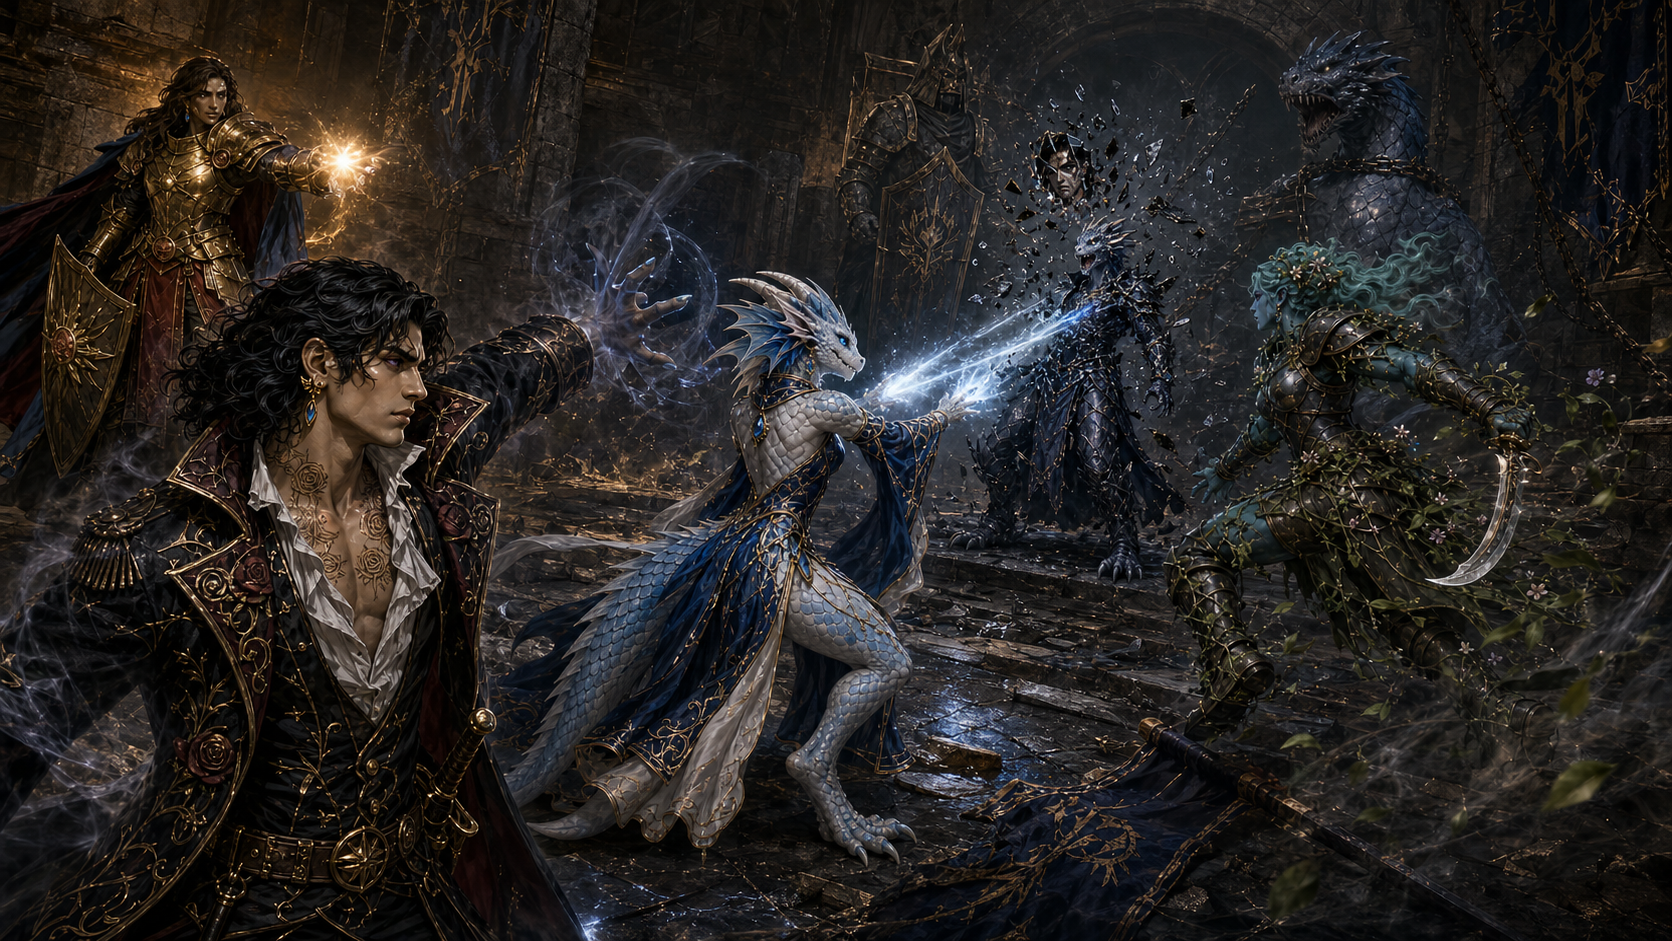
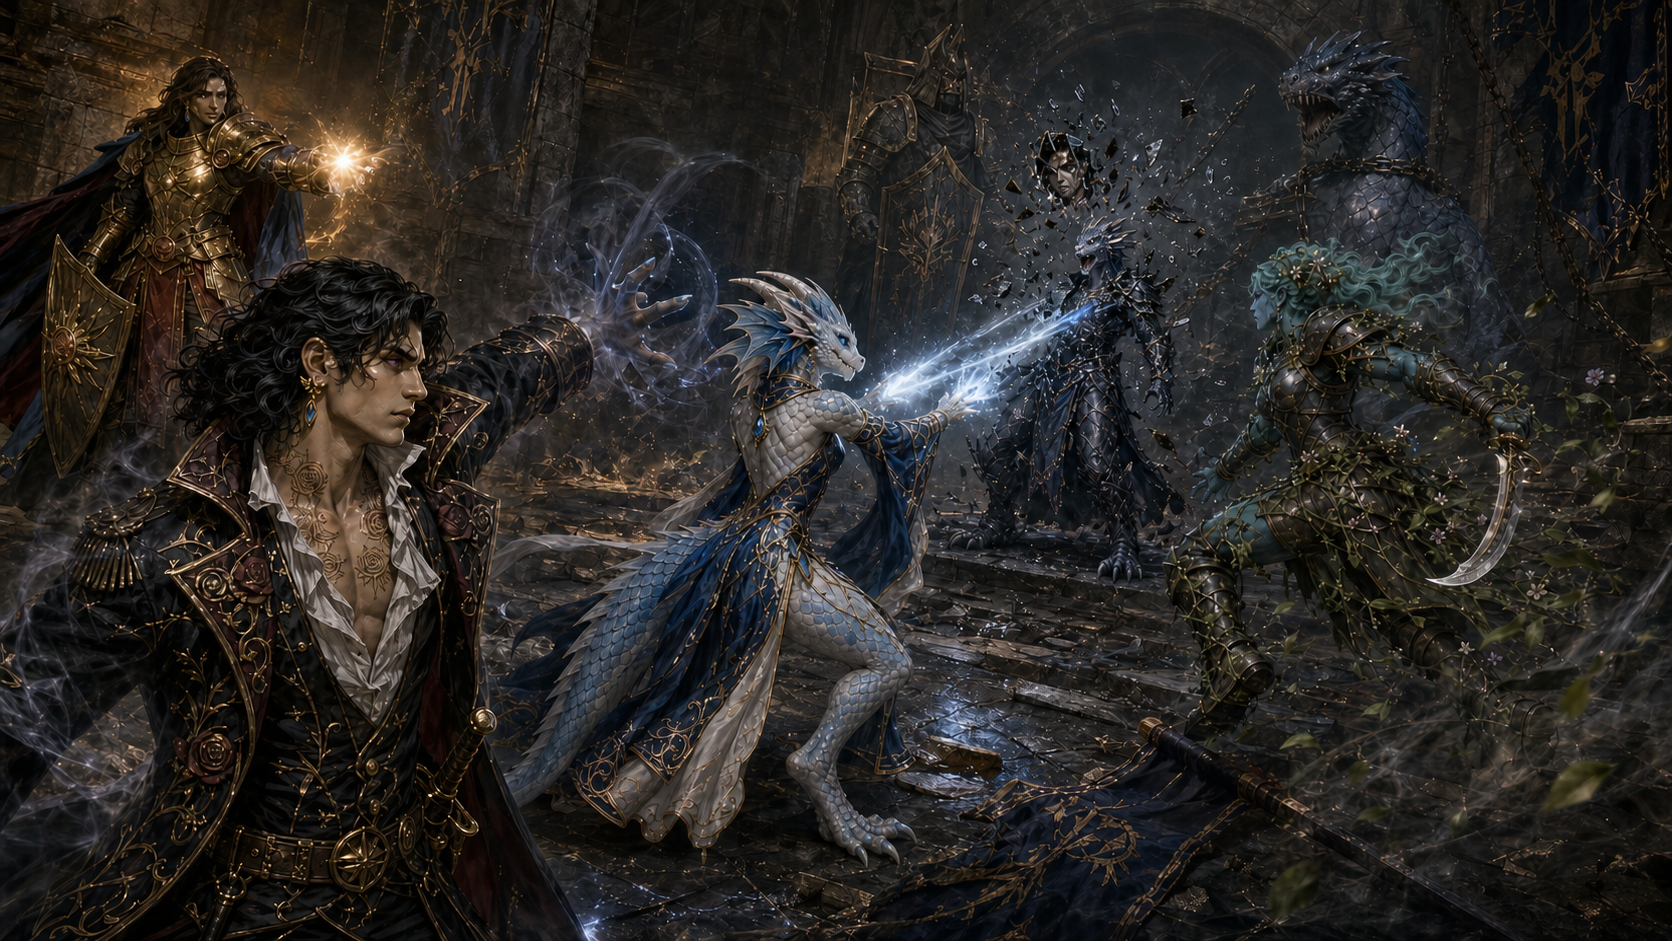
Document Dawnrunner interiors and refresh event art

diff --git a/docs/dawnrunner-interiors.md b/docs/dawnrunner-interiors.md
@@ -1,0 +1,89 @@
+---
+title: Dawnrunner Interiors
+status: reader-facing canonical environment record
+last_updated: 2026-07-26
+---
+
+# Dawnrunner Interiors
+
+The *Dawnrunner* is an enormous three-deck, three-masted galleon. Its approved
+interiors share dark walnut and raven-black construction, deep-crimson
+textiles, restrained antique-gold and silver fittings, protected warm
+lanterns, and the ship's winged fleur-de-lis, roses, and thorn tracery.
+
+The images below establish visual identity and principal uses. They do not
+lock an exact deck plan, dimensions, inventories, or the permanent placement
+of every furnishing.
+
+## Captain's command suite
+
+![Four canonical views of the captain's quarters](assets/dawnrunner/interiors/captains-quarters/dawnrunner-captains-quarters-four-pane.png)
+
+The large stern suite supports navigation, administration, private counsel,
+and rest. It includes a grand command room beneath the stern galleries, an
+instrument-rich navigation workspace, a compact built-in private berth, and
+an entry wall with secure storage. The broad windows, galleries, chart tables,
+books, and shipboard joinery distinguish it from a landbound palace.
+
+## Arcane workshop
+
+![Canonical Dawnrunner arcane workshop](assets/dawnrunner/interiors/arcane-workshop/dawnrunner-arcane-workshop.png)
+
+The two-level workshop is the ship's principal space for magical research,
+item creation, alchemy, and the study of unusual materials. Its central
+worktable, library gallery, secure cabinets, crystals, glassware, and precision
+apparatus support several specialists without displacing the captain's command
+functions. Individual objects shown are representative rather than a recorded
+artifact inventory.
+
+## Cargo hold
+
+| Longitudinal view | Arched structural view |
+|---|---|
+| ![Wide cargo-hold view](assets/dawnrunner/interiors/cargo-hold/dawnrunner-cargo-hold-wide.png) | ![Arched cargo-hold view](assets/dawnrunner/interiors/cargo-hold/dawnrunner-cargo-hold-arched.png) |
+
+The principal hold preserves a broad central aisle, regular support-post or
+structural-rib rhythm, and organized bays of barrels, crates, ropes, and
+locked chests. Vornix Drazgul, the ship's quartermaster, is the named officer
+most directly associated with its manifests and stores. The containers shown
+are representative, not a complete current inventory.
+
+## General crew quarters
+
+![Canonical Dawnrunner crew quarters](assets/dawnrunner/interiors/crew-quarters/dawnrunner-crew-quarters-canonical.jpg)
+
+Two tiers of built-in bunks line a long central passage. Deep-crimson bedding,
+individual sea chests, protected lanterns, and round hull ports create a more
+comfortable shared sleeping deck than an ordinary warship while preserving
+clear circulation and practical shipboard construction.
+
+This approved single view supplements the coordinated crew-sleeping Canonical
+Reference Pack. It does not silently replace the pack's additional fixed-bunk,
+hammock, wash, storage, and circulation references.
+
+## Officer and guest quarters
+
+![Canonical officer and guest cabin](assets/dawnrunner/interiors/officer-guest-quarters/dawnrunner-officer-guest-quarters-canonical.jpg)
+
+Officers and important guests receive compact private cabins with one built-in
+berth, a writing desk, a secure sea chest, modest shelving, enclosed lanterns,
+and a round hull port. Personal objects may vary by occupant, but the
+architecture and shipwide colors remain consistent.
+
+## Production authority
+
+The matching ComfyUI Canonical Reference Packs are stored under:
+
+`D:\comfyui\ComfyUI-Easy-Install\ComfyUI\input\Canonical Reference Packs`
+
+Relevant packs include the captain's quarters, magical workshop, cargo hold,
+crew sleeping quarters, and related Dawnrunner environmental packs. Pack
+images remain the hard continuity references for generated scenes; the
+reader-facing images on this page are approved canonical views and useful
+routing references.
+
+## Related records
+
+- [Dawnrunner vessel and crew record](dawnrunner.md)
+- [Dawnrunner canonical ship design](dawnrunner-ship-design.md)
+- [Strategic assets](../campaign/strategic_assets.md)

diff --git a/docs/dawnrunner-ship-design.md b/docs/dawnrunner-ship-design.md
@@ -74,6 +74,12 @@ and complete heraldic arrangement. Its raven-black field carries an engraved
 silver fleur-de-lis backed by silver wings, framed by deep-crimson roses and
 silver thorn vines.
 
+## Ship interiors
+
+The approved captain's command suite, arcane workshop, cargo hold, crew
+quarters, and officer/guest cabins are collected in the
+[Dawnrunner interiors record](dawnrunner-interiors.md).
+
 ## Rear captain's quarters
 
 ![Rear captain's quarters](assets/ships/dawnrunner/dawnrunner-captains-quarters-reference-sheet.png)
@@ -98,7 +104,7 @@ wall panels.
 
 ## Canonical reference packs
 
-The Dawnrunner is separated into seven ComfyUI packs so a specific component
+The Dawnrunner is separated into component-specific ComfyUI packs so a specific component
 can be locked without forcing unrelated ship details into a scene:
 
 - `Ship_Dawnrunner` — complete ship and four-view exterior geometry;
@@ -108,7 +114,17 @@ can be locked without forcing unrelated ship details into a scene:
 - `Ship_Dawnrunner_Sails` — complete sail plan and emblem hierarchy;
 - `Heraldry_Dawnrunner_Flag` — exact flag and heraldic palette; and
 - `Ship_Interior_Dawnrunner_Captains_Quarters` — rear cabin architecture and
-  furnishings.
+  furnishings;
+- `Ship_Interior_Dawnrunner_Magical_Workshop` — the two-level arcane
+  laboratory, library gallery, and central worktable;
+- `Ship_Interior_Dawnrunner_Cargo_Hold` — the principal hold, structural
+  rhythm, and organized storage bays; and
+- `Ship_Interior_Dawnrunner_Crew_Sleeping_Quarters` — shared sleeping,
+  circulation, hammock, wash, and personal-storage references.
+
+The approved single-cabin officer/guest view is also recorded in the
+[interiors guide](dawnrunner-interiors.md). It establishes the standard cabin
+appearance without claiming a fixed occupant or exact deck-plan location.
 
 The packs are stored under:
 
@@ -117,4 +133,3 @@ The packs are stored under:
 The durable approved art masters are stored under:
 
 `C:\Users\coutu\Documents\Codex\Documents\Dawnrunner\Ship Design`
-

diff --git a/docs/wiki-art-coverage.md b/docs/wiki-art-coverage.md
@@ -164,3 +164,23 @@ treated as interpretive visualizations rather than mechanical canon.
 Fate's Sword records two sale lots on one page because the known half and the
 presumed-lost half of the former Scissors of the Fates were auctioned
 separately.
+
+## Dawnrunner interior expansion - 2026-07-26
+
+| Interior | Repository assets |
+|---|---|
+| Captain's command suite | `docs/assets/dawnrunner/interiors/captains-quarters/` |
+| Arcane workshop | `docs/assets/dawnrunner/interiors/arcane-workshop/dawnrunner-arcane-workshop.png` |
+| Cargo hold | `docs/assets/dawnrunner/interiors/cargo-hold/` |
+| General crew quarters | `docs/assets/dawnrunner/interiors/crew-quarters/dawnrunner-crew-quarters-canonical.jpg` |
+| Officer and guest quarters | `docs/assets/dawnrunner/interiors/officer-guest-quarters/dawnrunner-officer-guest-quarters-canonical.jpg` |
+
+The reader-facing descriptions and visual-authority notes are consolidated in
+`docs/dawnrunner-interiors.md`. The user-approved crew and officer/guest views
+supplement their matching Canonical Reference Packs rather than silently
+superseding coordinated multi-view production packs.
+
+The Battle Beneath the Champions' Garrison scene at
+`docs/assets/events/false-oros-revealed.png` and its corresponding wiki asset
+were corrected to remove Aristea Enontië's duplicate tail while preserving
+the intended visible tail.

diff --git a/docs/events/awakening-on-sounon.md b/docs/events/awakening-on-sounon.md
@@ -1,6 +1,6 @@
 # Awakening on Sounon
 
-![The shipwrecked awaken on Sounon](../assets/events/awakening-on-sounon.png)
+![The shipwrecked awaken on Sounon](../assets/events/awakening-on-sounon-v2.png)
 
 The campaign opened when Siopi, Maarin, Paradox, Kaelen, Alley, Tulip, and
 other survivors awakened on Sounon after ten years in magical stasis. Pete was
@@ -9,4 +9,3 @@ held kuo-toa and enslaved grippli, including Bix.
 
 See the wiki pages `Awakening-on-Sounon.md`, `Sounon.md`, and
 `Events-and-Timeline.md`.
-

diff --git a/docs/events/nyssas-betrayal.md b/docs/events/nyssas-betrayal.md
@@ -1,9 +1,8 @@
 # Nyssa's Betrayal
 
-![The crew discovers the Mother's Lament missing](../assets/events/nyssas-betrayal.png)
+![The crew discovers the Mother's Lament missing](../assets/events/nyssas-betrayal-v2.png)
 
 Nyssa helped decipher the map in the Mother's Lament, later stole the book
 under an ash cloud, controlled Tulip with a Zeus-linked artifact glove, and was
 eventually revealed as an agent of Smokey Roberts. Her last confirmed
 appearance was an attack made beside Tenor and her husband.
-

diff --git a/docs/dawnrunner.md b/docs/dawnrunner.md
@@ -10,6 +10,9 @@ The Dawnrunner is Demidius Thorne's galleon, mobile headquarters, and command or
 
 Its canonical exterior, figurehead, sail plan, flag, stern, and rear captain's
 quarters are documented in the [Dawnrunner ship-design guide](dawnrunner-ship-design.md).
+The approved captain's command suite, arcane workshop, cargo hold, general
+crew quarters, and officer/guest cabins are collected in the
+[Dawnrunner interiors record](dawnrunner-interiors.md).
 
 ## Flag and ensign
 

diff --git a/campaign/events-and-timeline.md b/campaign/events-and-timeline.md
@@ -1,6 +1,6 @@
 # Events and Timeline
 
-![A chart-table chronicle of the Arrival](../docs/assets/events/events-and-timeline.png)
+![A chart-table chronicle of the Arrival](../docs/assets/events/events-and-timeline-v2.png)
 
 This is the repository's master event catalog. The reader-facing version is
 mirrored in the GitHub wiki as `Events-and-Timeline.md`.
